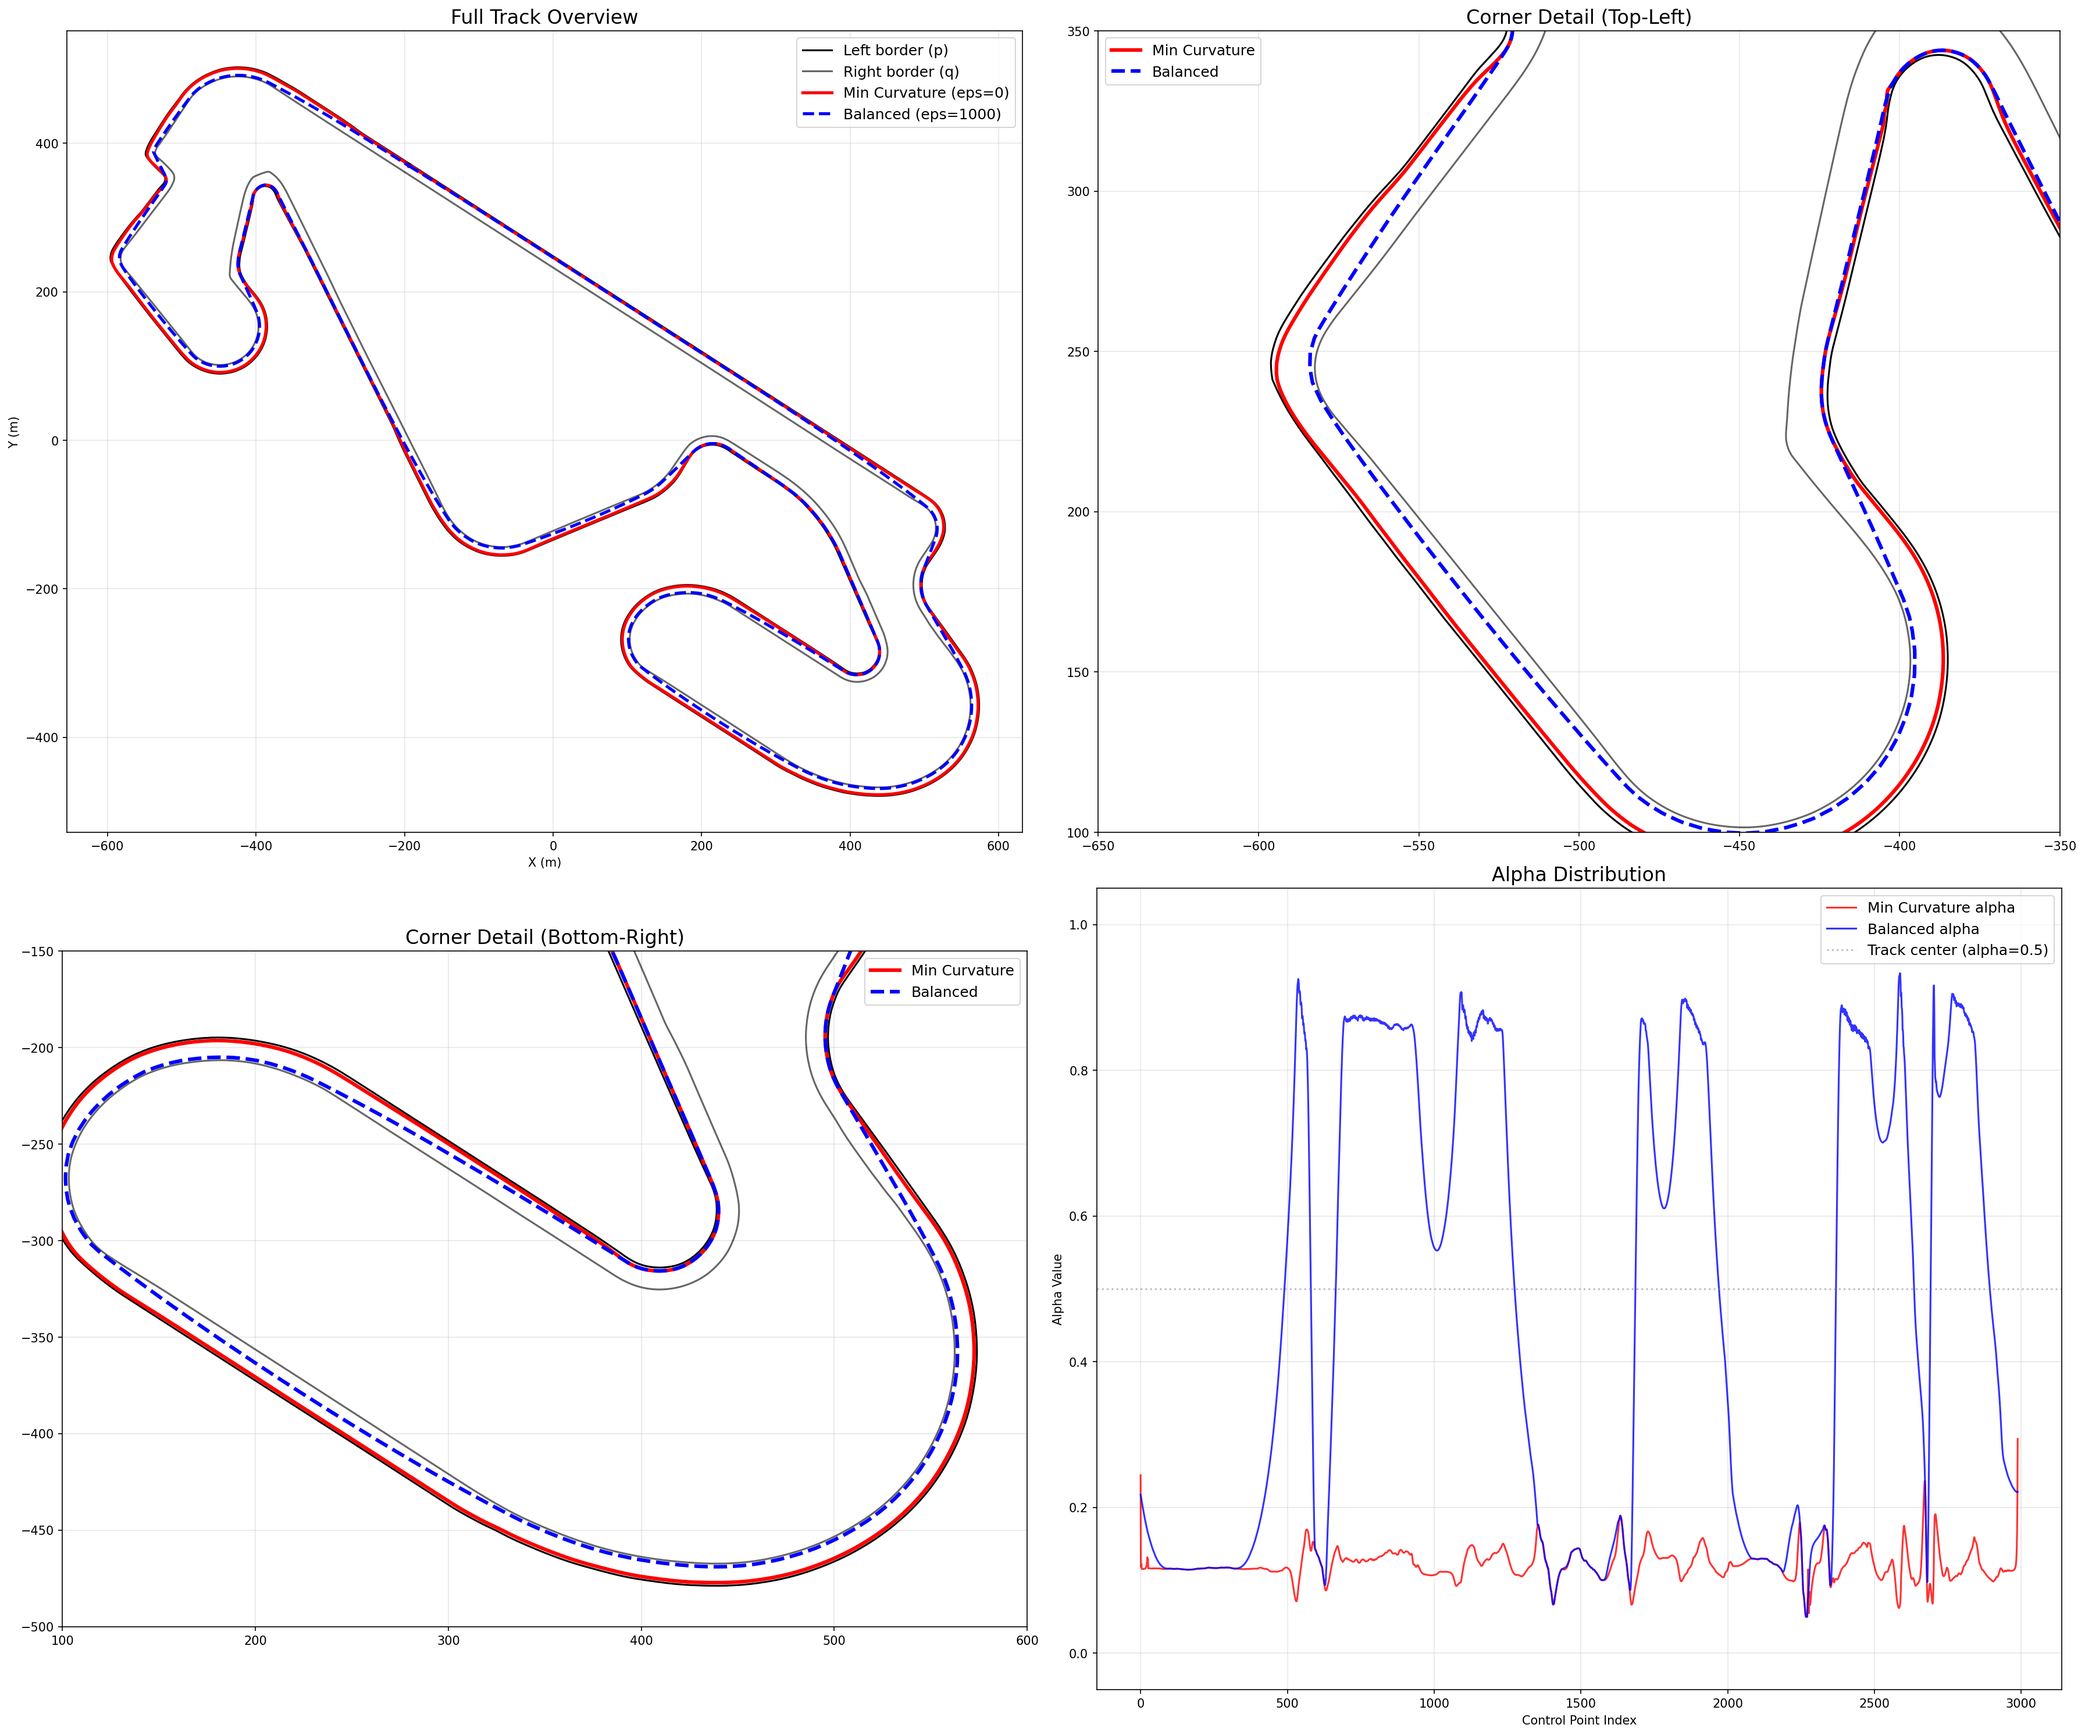
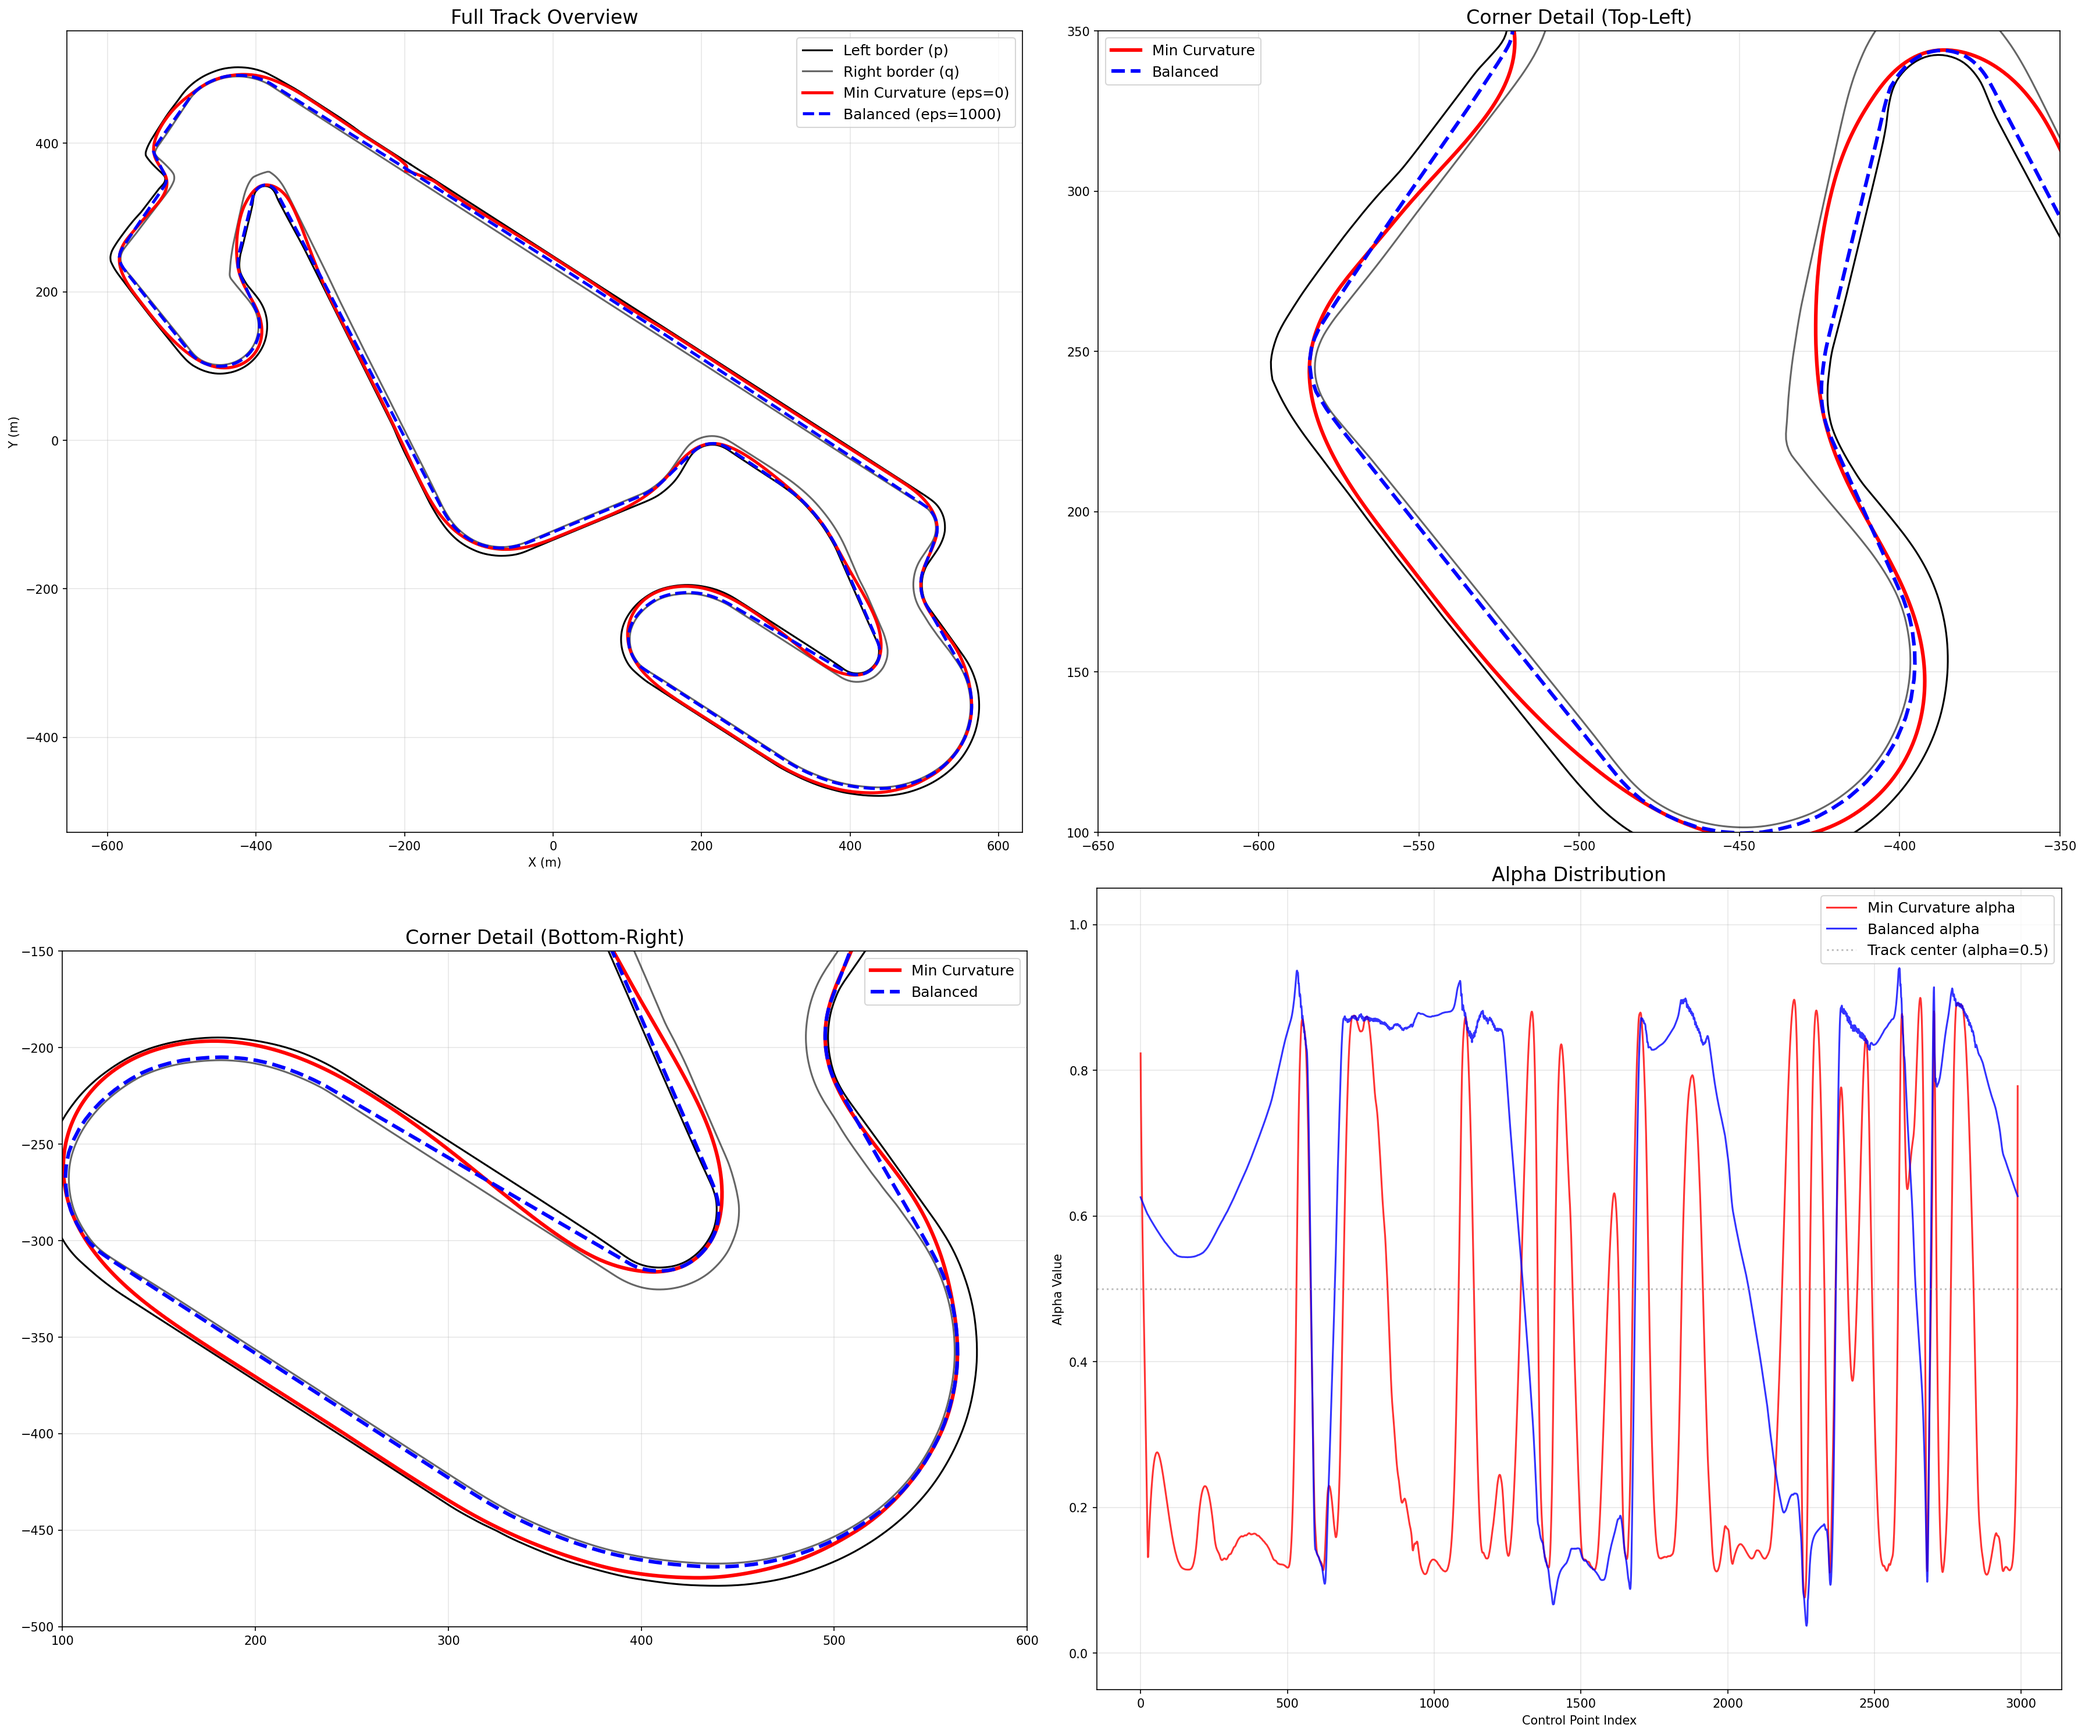
docs/update: synchronized SQP parameters and regenerated comparison plots

diff --git a/README.md b/README.md
@@ -88,7 +88,7 @@ python reproduce_paper.py
 在 `reproduce_paper.py` 的 `__main__` 部分可以调节以下关键参数：
 - `epsilon`: 平衡权重。设为 $0$ 时为纯最小曲率线；增大（如 $1000$）则倾向于最短路径。
 - `ws`: 安全冗余距离（米）。增加此值会让轨迹离墙更远。
-- `gamma`: SQP 松弛因子。默认 $0.5$，若发现不收敛可以适当调小（如 $0.2$）。
+- `gamma`: 自适应 SQP 松弛因子。针对长赛道高曲率处 OSQP 易出现的 `solved inaccurate` 解析不稳定现象，我们在代码中实施了**自适应步长阻尼**。默认解步长权重为 $0.5$（防振荡），若捕获到求解器精度警告，则自动缩减至 $0.1$ 强行跨越死锁。
 
 ## 5. 项目结构 (Structure)
 
